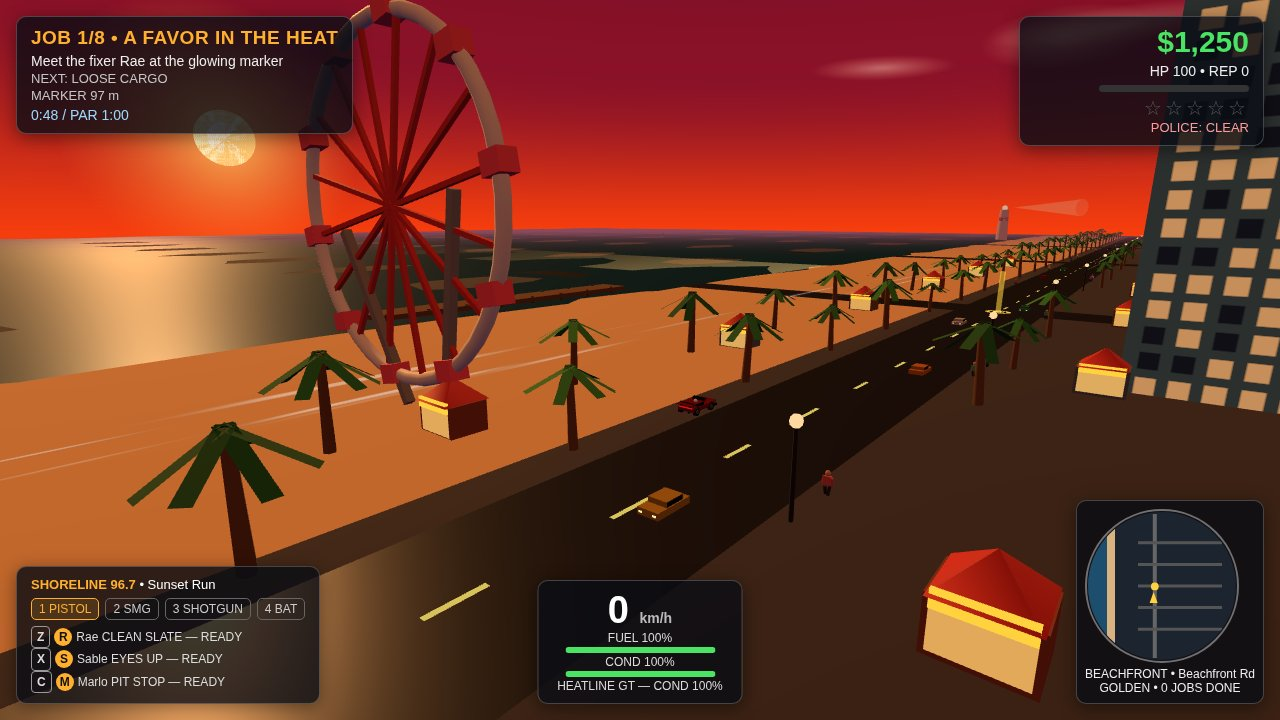
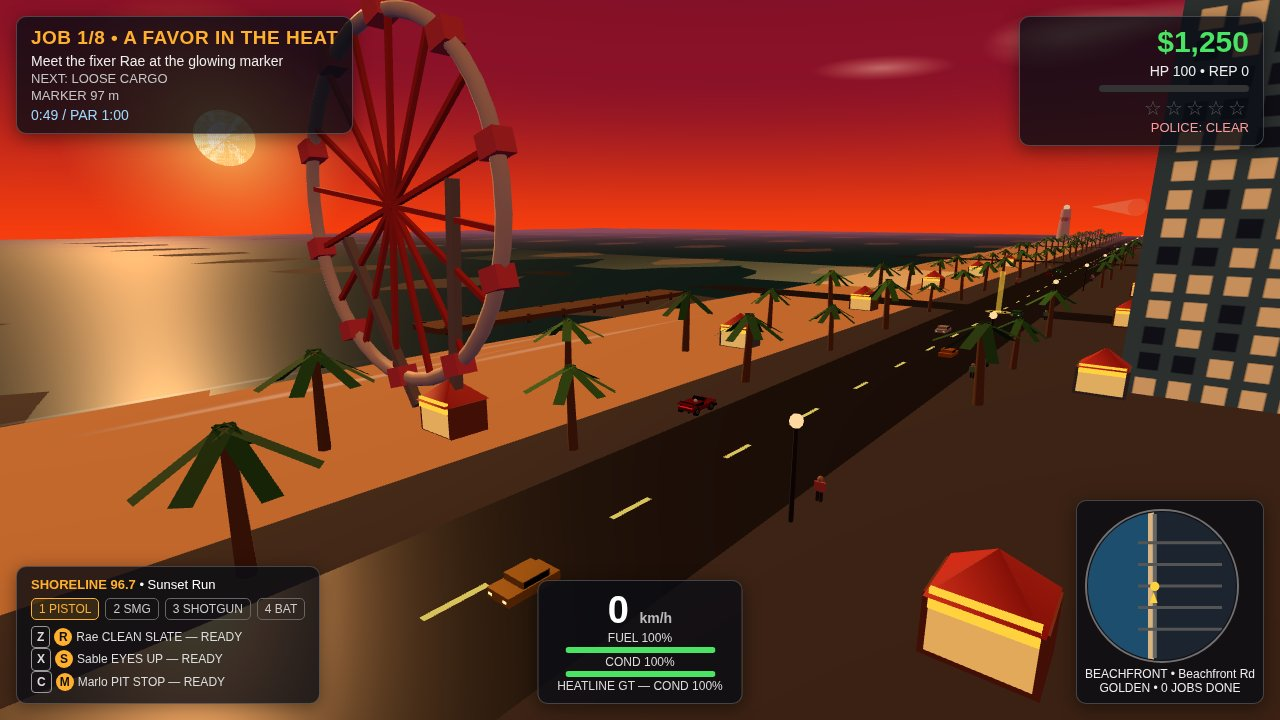
v11 fix round 4: heli centred, cone slimmer, ocean brighter, glitter follows car

diff --git a/game/src/main.js b/game/src/main.js
@@ -84,7 +84,7 @@ const walkers = [];
   const cols = [0xd8d8d8, 0x3a6ea8, 0xc85a5a, 0x5aa87a, 0xe0c85a, 0x8a5ac8];
   for (let i = 0; i < 20; i++) {
     const w = makeWalker(cols[i % cols.length]);
-    const side = rnd() < 0.5 ? MAP.roadX - 8 : MAP.roadX + 8;
+    const side = rnd() < 0.5 ? MAP.roadX - 12 : MAP.roadX + 12;
     w.group.position.set(side + (rnd() - 0.5) * 3, 0, -560 + rnd() * 1120);
     w.group.userData = { dir: rnd() < 0.5 ? 1 : -1, speed: 1 + rnd() * 1.2, phase: rnd() * 6, homeX: w.group.position.x };
     scene.add(w.group);
@@ -291,9 +291,9 @@ function placeCamera(mode) {
     camera.position.set(-34, 20, 152);
     camera.lookAt(-76, 5, 102);
   } else if (mode === 'chase' || mode === 'chaseWide') {
-    const back = mode === 'chase' ? 12 : 14;
+    const back = mode === 'chase' ? 12 : 12;
     const side = mode === 'chase' ? 3.2 : 3.6;
-    const up = mode === 'chase' ? 3.2 : 5.6;
+    const up = mode === 'chase' ? 3.2 : 5.0;
     camera.position.copy(car).addScaledVector(fwd, -back).addScaledVector(right, side).add(new THREE.Vector3(0, up, 0));
     // Pan the view toward the ocean (west) so the water is in the frame.
     camera.lookAt(car.clone().addScaledVector(fwd, 4).addScaledVector(right, -8).add(new THREE.Vector3(0, 1.0, 0)));
@@ -668,6 +668,8 @@ function updateWorld(dt, t) {
       heli.group.position.y = Math.max(SHOTS[shotName].heliOff.y, 14);
       syncSpotlight();
     }
+    // sun glitter follows the car so the water reads in the chase frames
+    world.glitter.position.z = car.position.z - 10;
     S.speedKmh = S.speed * 3.6;
     // the drift popup must still be on screen at capture time: re-show it
     // on wall-clock time, since game time runs slower than real time here

diff --git a/game/src/vehicles.js b/game/src/vehicles.js
@@ -200,12 +200,12 @@ export function makeHeli() {
   g.add(rotor);
   // Spotlight cone hanging below, and the pool it throws on the road.
   const cone = new THREE.Mesh(
-    new THREE.ConeGeometry(4.5, 13, 20, 1, true),
-    new THREE.MeshBasicMaterial({ color: 0xfff6c0, transparent: true, opacity: 0.22, side: THREE.DoubleSide, depthWrite: false }));
+    new THREE.ConeGeometry(3.2, 13, 20, 1, true),
+    new THREE.MeshBasicMaterial({ color: 0xfff6c0, transparent: true, opacity: 0.18, side: THREE.DoubleSide, depthWrite: false }));
   cone.position.y = -6.9; // apex up at the heli, wide end down at the road
   g.add(cone);
-  const pool = new THREE.Mesh(new THREE.CircleGeometry(4.2, 24),
-    new THREE.MeshBasicMaterial({ color: 0xffe9a0, transparent: true, opacity: 0.65, depthWrite: false }));
+  const pool = new THREE.Mesh(new THREE.CircleGeometry(3.2, 24),
+    new THREE.MeshBasicMaterial({ color: 0xffe9a0, transparent: true, opacity: 0.55, depthWrite: false }));
   pool.rotation.x = -Math.PI / 2;
   pool.position.y = -13.4;
   g.add(pool);

diff --git a/game/src/world.js b/game/src/world.js
@@ -99,7 +99,7 @@ export function buildWorld(scene, seed) {
   // ---- ocean: animated plane + foam strip at the waterline ----
   const oceanGeo = new THREE.PlaneGeometry(700, 1300, 40, 60);
   oceanGeo.rotateX(-Math.PI / 2);
-  const oceanMat = new THREE.MeshStandardMaterial({ color: 0x1d4e6e, roughness: 0.25, metalness: 0.55 });
+  const oceanMat = new THREE.MeshStandardMaterial({ color: 0x27678f, roughness: 0.25, metalness: 0.55 });
   const ocean = new THREE.Mesh(oceanGeo, oceanMat);
   ocean.position.set(-465, 0.4, 0);
   scene.add(ocean);
@@ -119,6 +119,7 @@ export function buildWorld(scene, seed) {
   glitter.rotation.x = -Math.PI / 2;
   glitter.position.set(-230, 0.55, -60);
   scene.add(glitter);
+  out.glitter = glitter;
   const foamTex = canvasTex(64, 256, (g, w, h) => {
     g.clearRect(0, 0, w, h);
     for (let i = 0; i < 90; i++) {

diff --git a/game/src/config.js b/game/src/config.js
@@ -58,7 +58,7 @@ export const SHOTS = {
   },
   play: {
     job: 2, cash: 3750, rep: 1, done: 1, wanted: 0, elapsed: 72, par: '1:30',
-    speed: 141, heli: true, heliOff: { x: -8, y: 13, z: -38 },
+    speed: 141, heli: true, heliOff: { x: -4, y: 13, z: -30 },
     police: [
       { call: 'SNOOK-12', d: 6, st: 'RESPONDING' },
       { call: 'SNOOK-11', d: 14, st: 'RESPONDING' },
@@ -70,7 +70,7 @@ export const SHOTS = {
   },
   chase: {
     job: 5, cash: 13200, rep: 5, done: 4, wanted: 3, elapsed: 129, par: '2:30',
-    speed: 152, heli: true, heliOff: { x: -6, y: 13.5, z: -40 },
+    speed: 152, heli: true, heliOff: { x: -3, y: 13.5, z: -32 },
     police: [
       { call: 'SNOOK-12', d: 6, st: 'RAMMING' },
       { call: 'SNOOK-11', d: 14, st: 'PURSUIT' },
